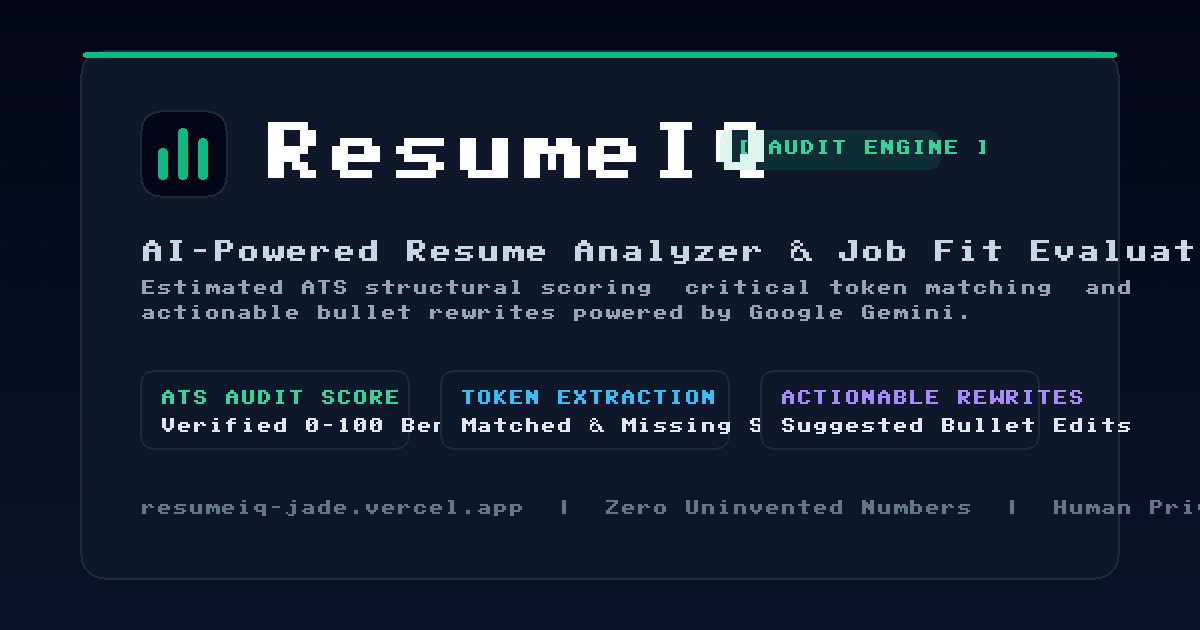
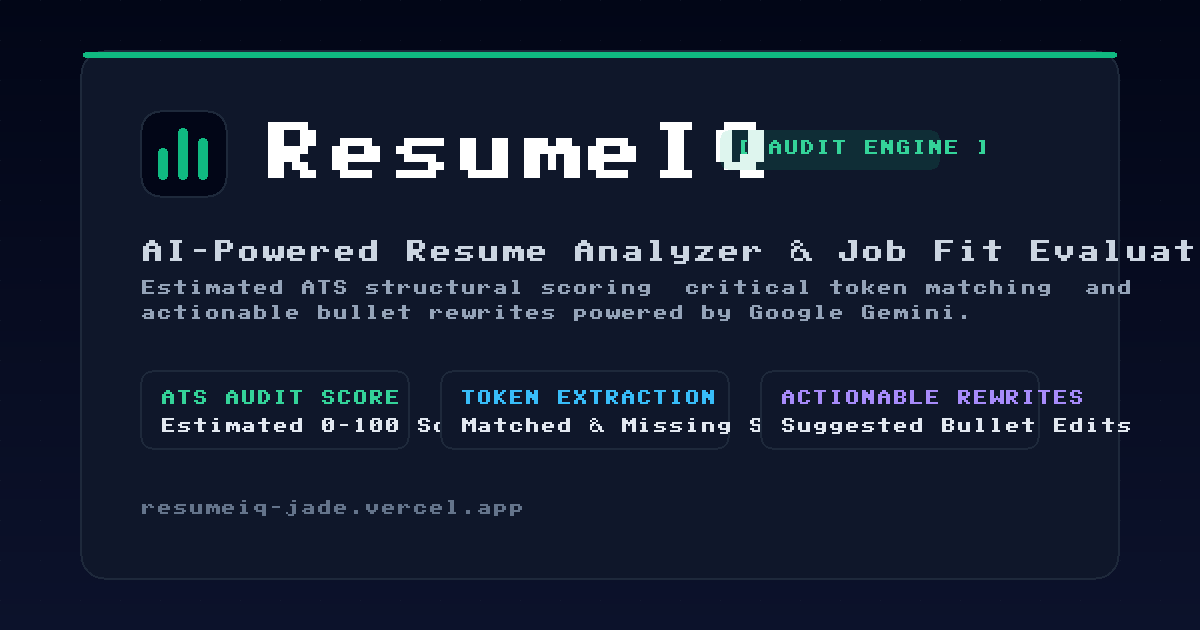
fix(ui): align social preview image text with honest claims

Changed region(s): [[0.4933, 0.7841, 0.8017, 0.8143], [0.1233, 0.6635, 0.37, 0.6937], [0.8633, 0.7841, 1.0, 0.8143]]

diff --git a/client/scripts/generate-og-preview.js b/client/scripts/generate-og-preview.js
@@ -255,7 +255,7 @@ export function generateOGImage(outPath) {
   img.fillRoundedRect(140, 370, 270, 80, 12, 30, 41, 59, 255);
   img.fillRoundedRect(142, 372, 266, 76, 10, 15, 23, 42, 255);
   img.drawText("ATS AUDIT SCORE", 160, 390, 2, 52, 211, 153);
-  img.drawText("Verified 0-100 Benchmark", 160, 418, 2, 226, 232, 240);
+  img.drawText("Estimated 0-100 Score", 160, 418, 2, 226, 232, 240);
 
   // Pill 2: Keyword Tokenizer
   img.fillRoundedRect(440, 370, 290, 80, 12, 30, 41, 59, 255);
@@ -270,7 +270,7 @@ export function generateOGImage(outPath) {
   img.drawText("Suggested Bullet Edits", 780, 418, 2, 226, 232, 240);
 
   // 8. Footer metadata line
-  img.drawText("resumeiq-jade.vercel.app  |  Zero Uninvented Numbers  |  Human Privacy First", 140, 500, 2, 100, 116, 139);
+  img.drawText("resumeiq-jade.vercel.app", 140, 500, 2, 100, 116, 139);
 
   // Write file
   const pngBuffer = buildPNGFile(img);
